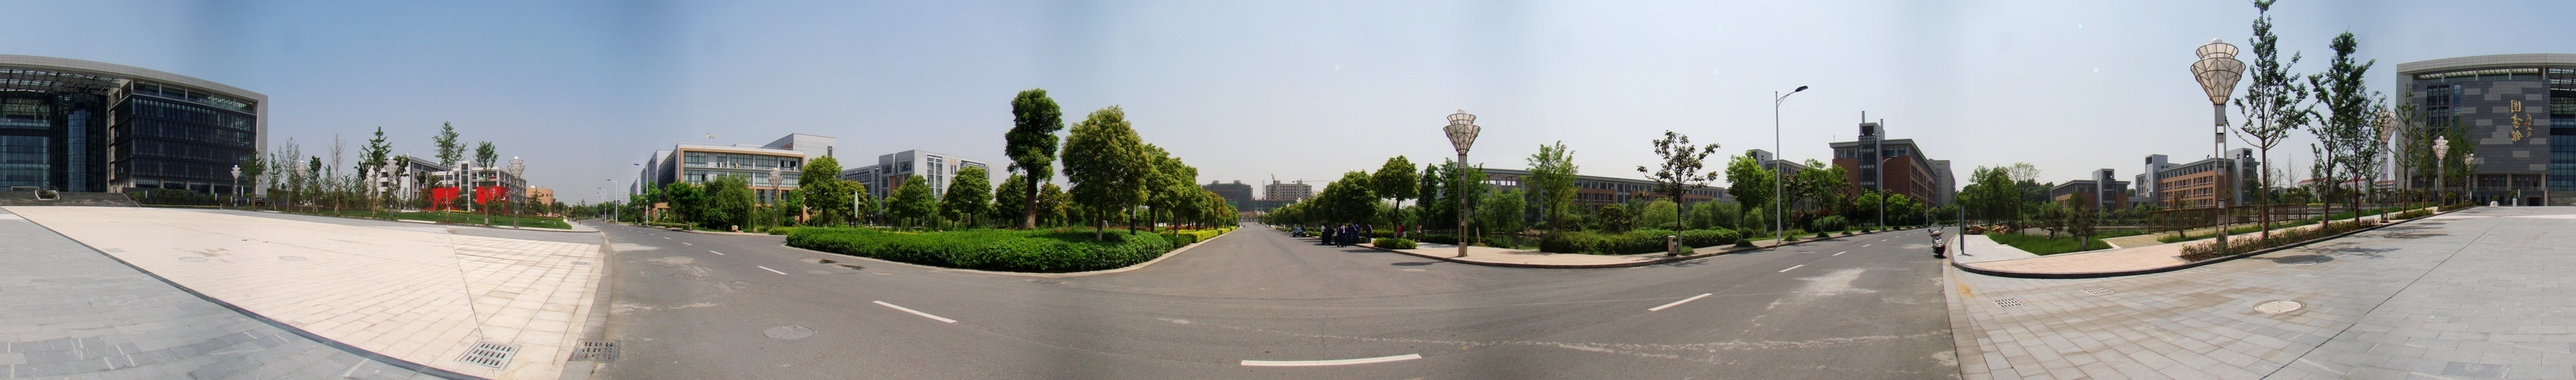
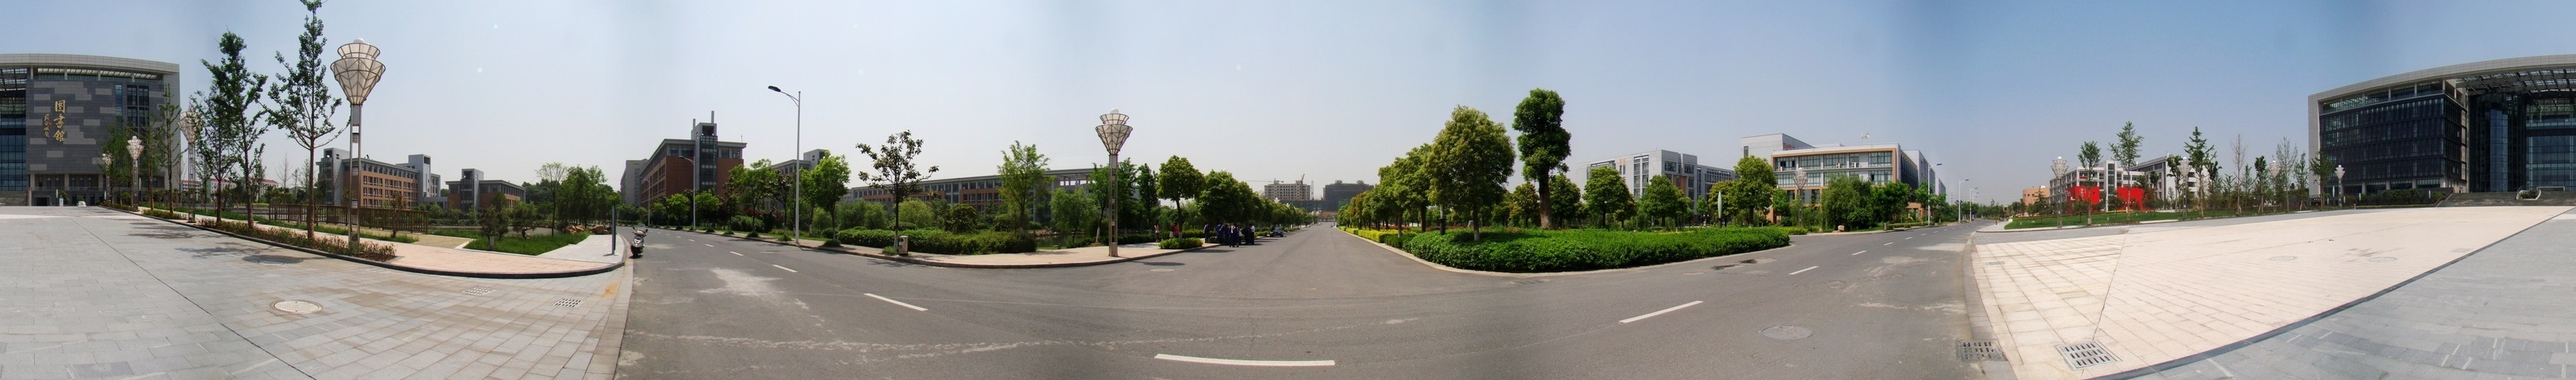
bug fix
1. fix another flipped image.
2. adjust rotation speed

diff --git a/js/streetView.js b/js/streetView.js
@@ -135,17 +135,11 @@ var StreetView = function (container) {
         var img = new Image(), ratio = 2;
         canvasContext.clearRect(0, 0, CANVAS_WIDTH, CANVAS_HEIGHT);
         img.onload = function() {
-            // TODO: 处理不同长宽比、尺寸的图片
-            var w, h;
-            if(img.width / img.height > ratio) {
-                
-            } else {
-                
-            }
-        
+            var h = img.height * CANVAS_WIDTH / img.width;
+            // flip
             canvasContext.translate(CANVAS_WIDTH, 0);
             canvasContext.scale(-1, 1);
-            canvasContext.drawImage(img, 0, (CANVAS_HEIGHT - img.height) / 2, CANVAS_WIDTH, img.height);
+            canvasContext.drawImage(img, 0, (CANVAS_HEIGHT - h) / 2, CANVAS_WIDTH, h);
             texture.needsUpdate = true;
         }
         img.src = image;
@@ -231,10 +225,10 @@ var StreetView = function (container) {
         mouse.x = -event.clientX;
         mouse.y = event.clientY;
 
-        var zoomDamp = distance / 100;
+        var zoomDamp = distance / 10000;
 
-        target.x = targetOnDown.x - (mouse.x - mouseOnDown.x) * 0.005 * zoomDamp;
-        target.y = targetOnDown.y - (mouse.y - mouseOnDown.y) * 0.005 * zoomDamp;
+        target.x = targetOnDown.x - (mouse.x - mouseOnDown.x) * zoomDamp;
+        target.y = targetOnDown.y - (mouse.y - mouseOnDown.y) * zoomDamp;
 
         target.y = target.y > Y_RANGE ? Y_RANGE : target.y;
         target.y = target.y < -Y_RANGE ? -Y_RANGE : target.y;
@@ -265,6 +259,7 @@ var StreetView = function (container) {
     this.zoomOut = function(){return zoom(-100), this};
     
     var pan = function(offset) {
+      //todo: 修改速度算法
       return target.x += offset * 0.005 * distance / 100, this;
     }
     this.panLeft = function(){return pan(2);}
